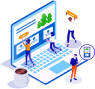
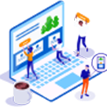
FIX: Fixed image responsiveness

diff --git a/src/components/ProjectsCard/ProjectsCard.scss b/src/components/ProjectsCard/ProjectsCard.scss
@@ -58,12 +58,9 @@
     flex-basis: 50%;
 
     .project-card-project-img {
-      max-width: 100%;
-      max-height: 100%;
       object-fit: cover;
       @media screen and (max-width: 1280px) {
-        width: 60%;
-        height: 60%;
+        transform: scale(0.75);
       }
     }
   }
